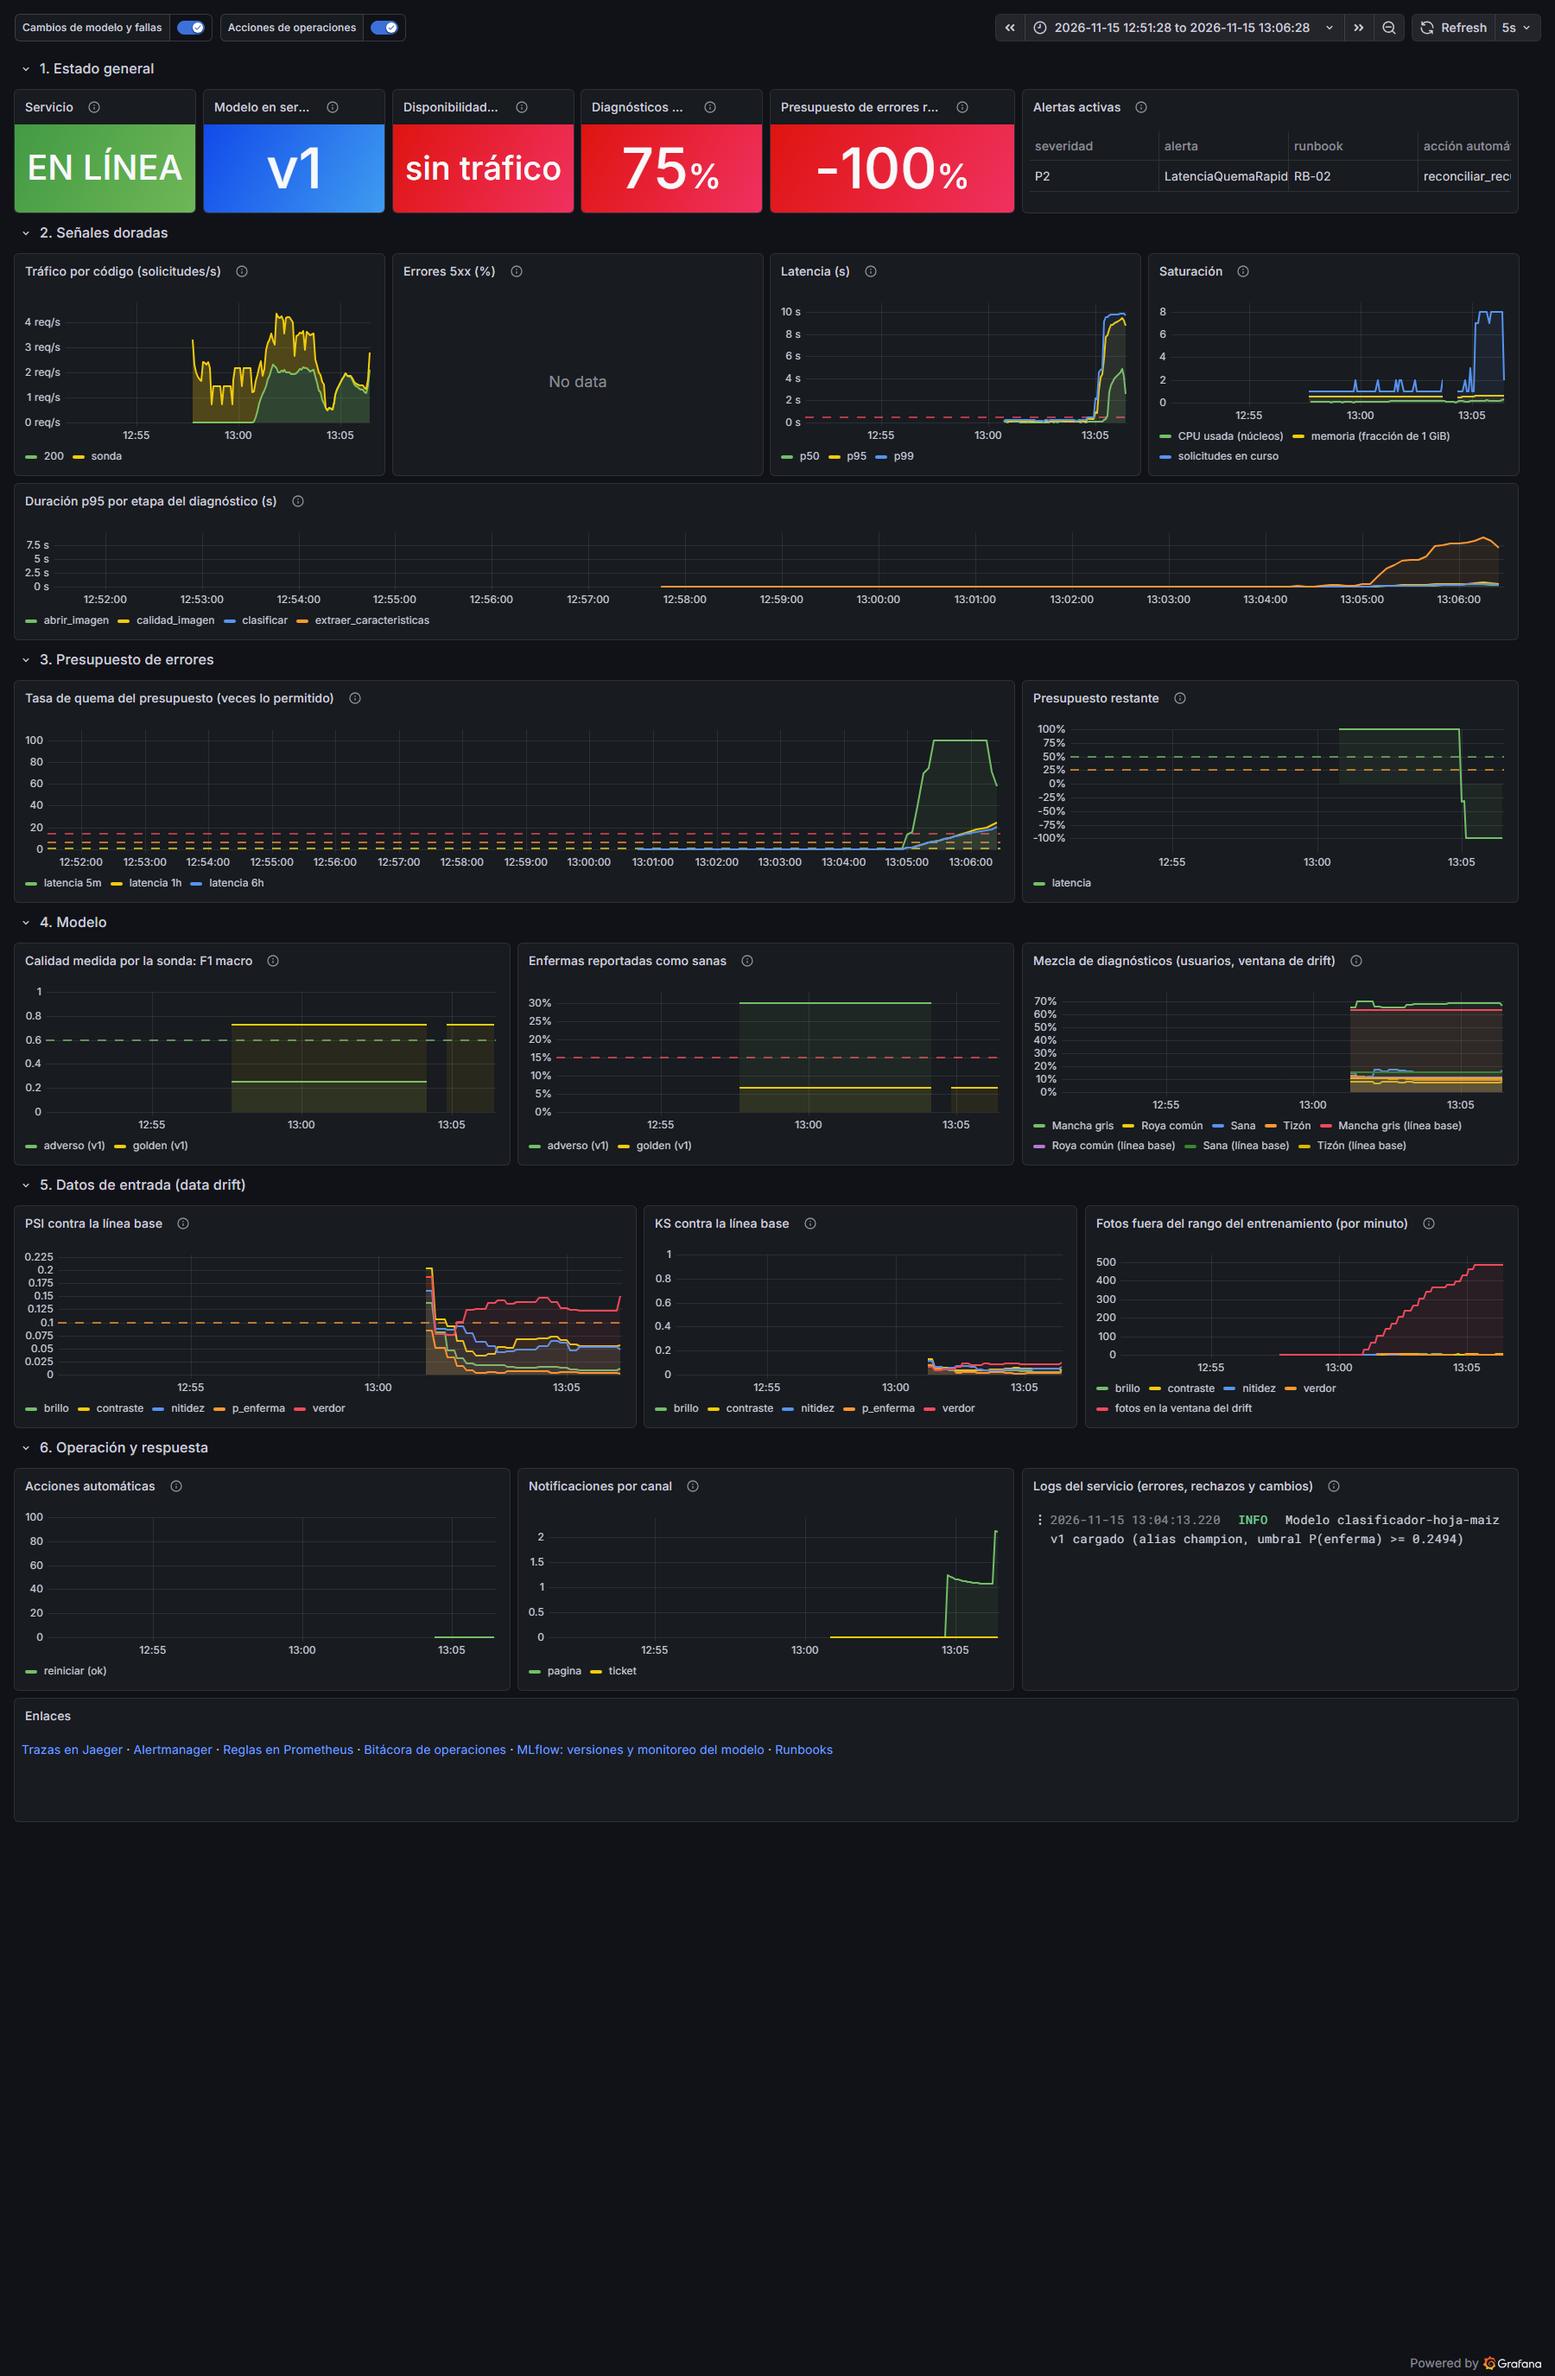
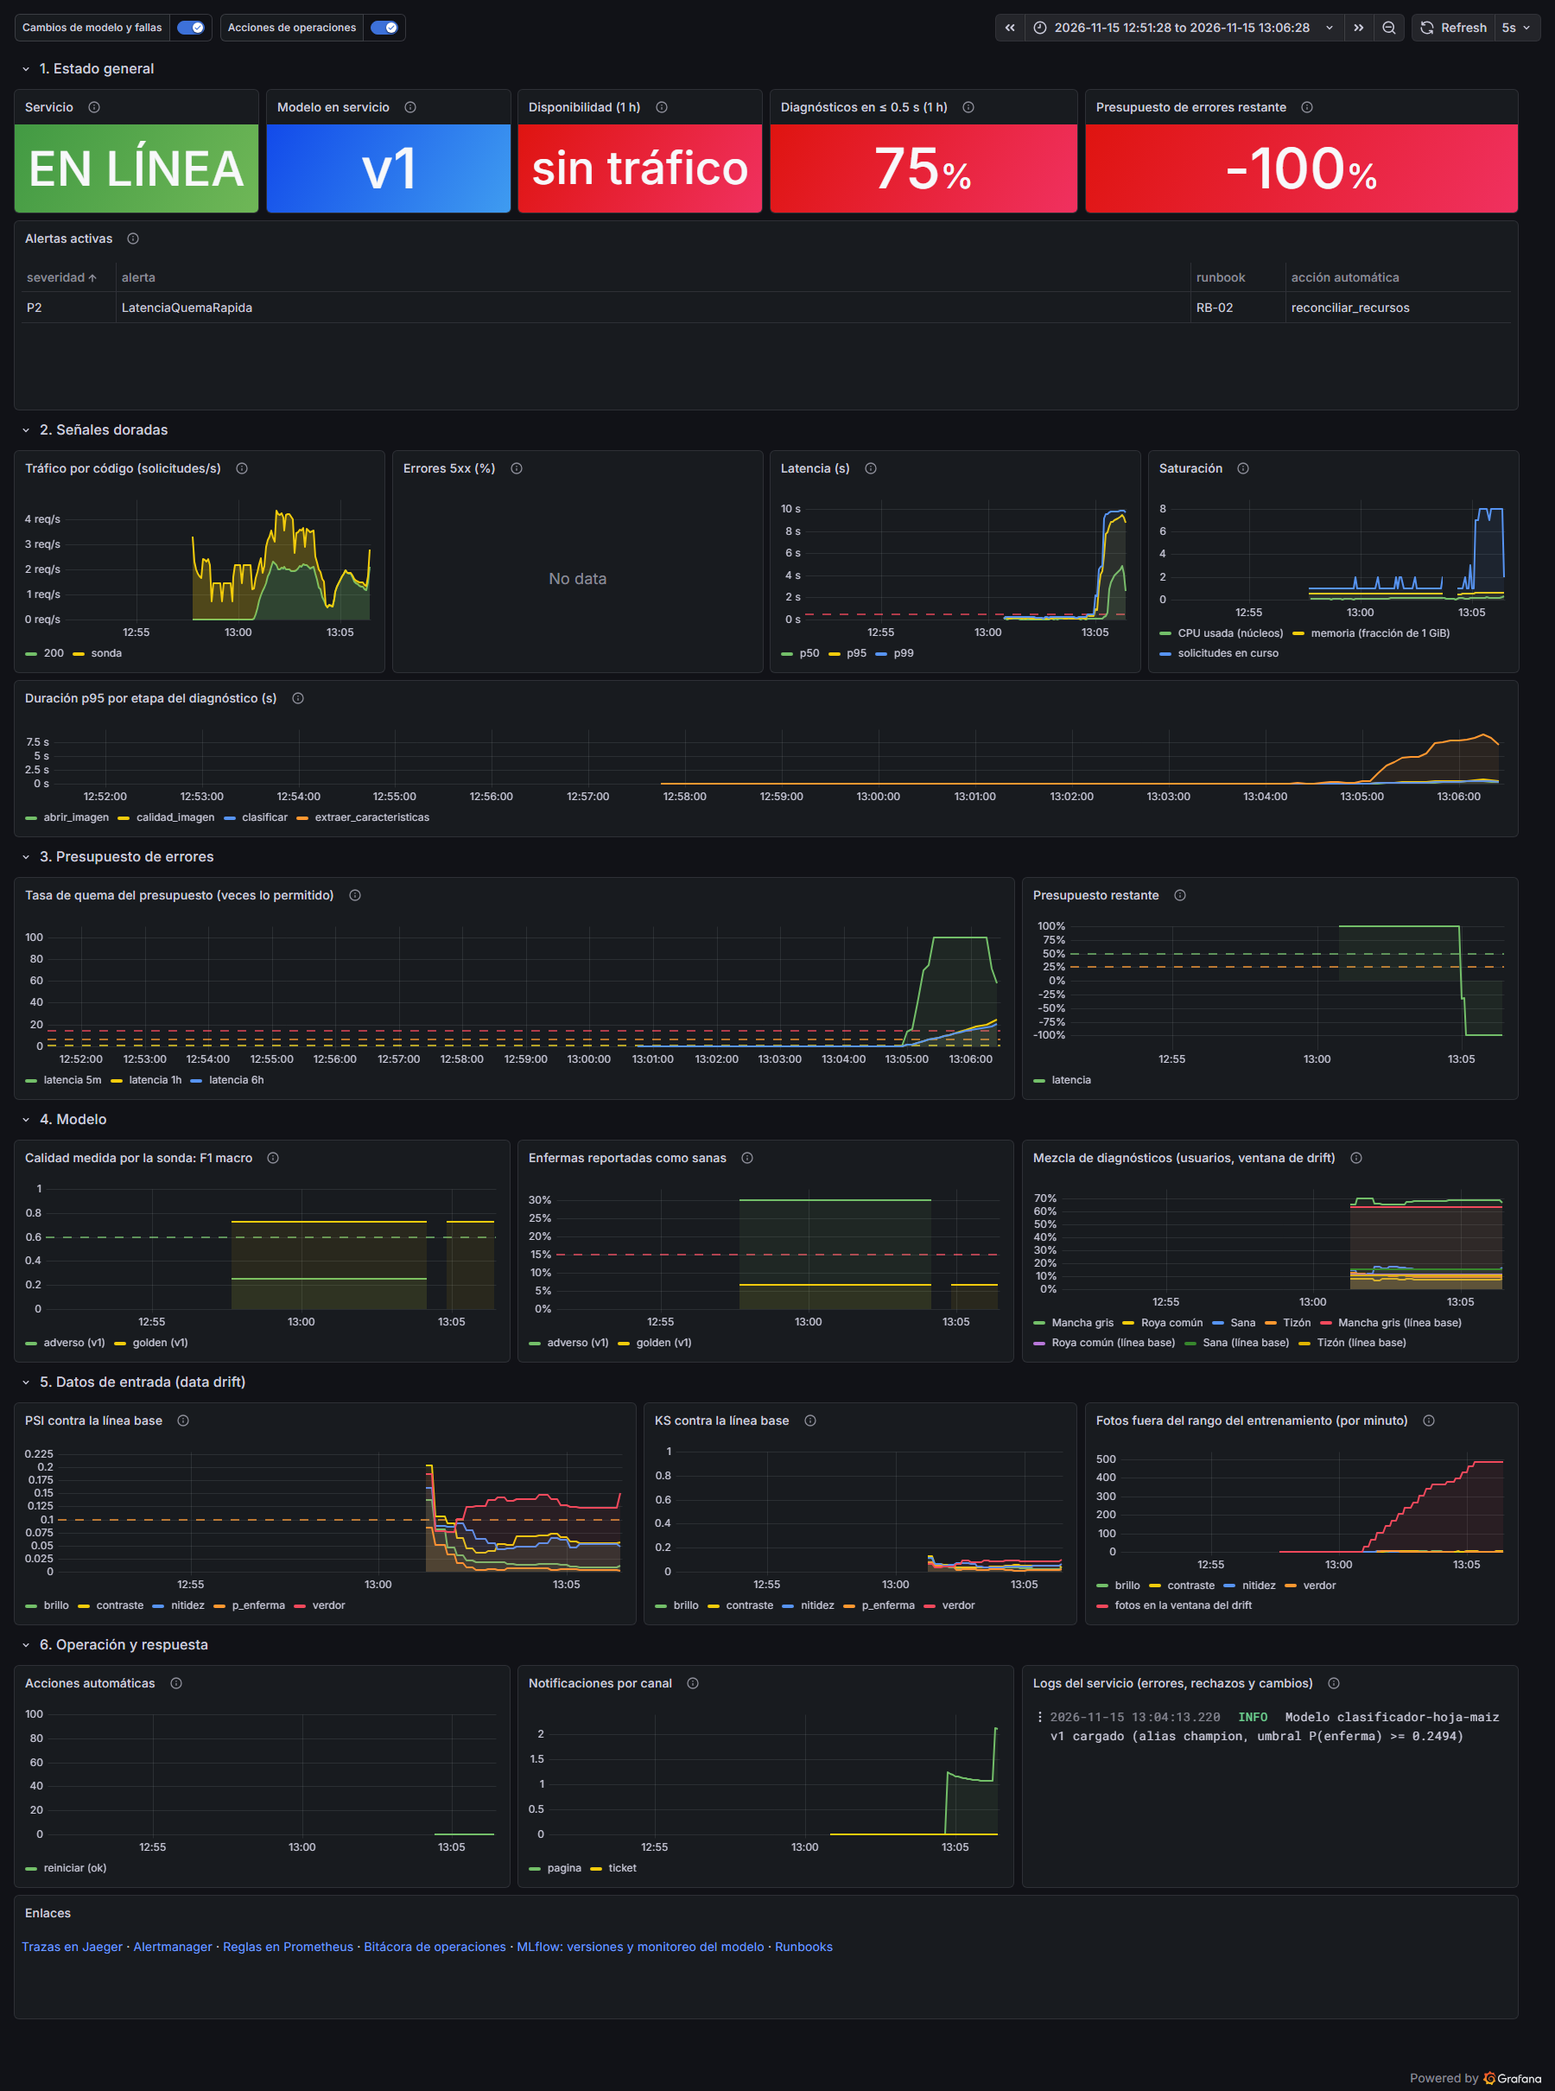
Tablero: alertas activas en una fila propia y ordenadas por severidad; capturas de Grafana repetidas
En un panel de 8 columnas por 4 de alto solo se leía una alerta y media (en el INC-04 se cortaba
CalidadModeloDegradada, la que dispara el rollback). Los indicadores de la fila 1 ocupan ahora todo el
ancho y sus títulos ya no se truncan.

diff --git a/monitoreo/tablero.py b/monitoreo/tablero.py
@@ -83,28 +83,36 @@ def construir():
 
     paneles.append(fila("1. Estado general", y)); y += 1
     paneles += [
-        dato("Servicio", 0, y, 3, 4, [q('up{job="api"}', instant=True)], "La API responde a Prometheus.",
+        dato("Servicio", 0, y, 4, 4, [q('up{job="api"}', instant=True)], "La API responde a Prometheus.",
              umbral=rojo_verde, mapeos=[{"type": "value", "options": {"0": {"text": "CAÍDO", "color": "red"},
                                                                        "1": {"text": "EN LÍNEA", "color": "green"}}}]),
-        dato("Modelo en servicio", 3, y, 3, 4, [q("max by (version) (modelo_info)", "v{{version}}", instant=True)],
+        dato("Modelo en servicio", 4, y, 4, 4, [q("max by (version) (modelo_info)", "v{{version}}", instant=True)],
              "Versión del alias champion del registro.", texto="name", umbral=umbrales(("blue", None))),
-        dato("Disponibilidad (1 h)", 6, y, 3, 4, [q('1 - slo:proporcion_errores:v1h{slo="disponibilidad"}', instant=True)],
+        dato("Disponibilidad (1 h)", 8, y, 4, 4, [q('1 - slo:proporcion_errores:v1h{slo="disponibilidad"}', instant=True)],
              "SLO: 99.5 % sin errores 5xx.", "percentunit", umbrales(("red", None), ("orange", 0.99), ("green", 0.995))),
-        dato("Diagnósticos en ≤ 0.5 s (1 h)", 9, y, 3, 4, [q('1 - slo:proporcion_errores:v1h{slo="latencia"}', instant=True)],
+        dato("Diagnósticos en ≤ 0.5 s (1 h)", 12, y, 5, 4, [q('1 - slo:proporcion_errores:v1h{slo="latencia"}', instant=True)],
              "SLO: 99 % en 0.5 s o menos.", "percentunit", umbrales(("red", None), ("orange", 0.95), ("green", 0.99))),
-        dato("Presupuesto de errores restante", 12, y, 4, 4,
+        dato("Presupuesto de errores restante", 17, y, 7, 4,
              [q('slo:presupuesto_restante', "{{slo}}", instant=True)],
              "Cuánto del presupuesto de la ventana del SLO (30 días; 2.5 días en el laboratorio) queda sin gastar.",
              "percentunit", umbrales(("red", None), ("orange", 0.25), ("green", 0.5))),
-        panel("table", "Alertas activas", 16, y, 8, 4,
-              [q('ALERTS{alertstate="firing"}', instant=True, formato="table")],
-              "Alertas que Prometheus tiene disparadas (Alertmanager decide a quién avisar y cuáles se inhiben).",
-              extra={"transformations": [{"id": "organize", "options": {
-                  "includeByName": {"alertname": True, "severidad": True, "runbook": True, "accion": True},
-                  "indexByName": {"severidad": 0, "alertname": 1, "runbook": 2, "accion": 3},
-                  "renameByName": {"alertname": "alerta", "accion": "acción automática"}}}]}),
     ]
     y += 4
+    # Fila propia y a todo lo ancho: en un panel de 8 columnas por 4 de alto solo se leía una alerta y media
+    tabla_alertas = panel("table", "Alertas activas", 0, y, 24, 6,
+                          [q('ALERTS{alertstate="firing"}', instant=True, formato="table")],
+                          "Alertas que Prometheus tiene disparadas (Alertmanager decide a quién avisar y cuáles se "
+                          "inhiben).", opciones={"showHeader": True, "sortBy": [{"displayName": "severidad", "desc": False}]},
+                          extra={"transformations": [{"id": "organize", "options": {
+                              "includeByName": {"alertname": True, "severidad": True, "runbook": True, "accion": True},
+                              "indexByName": {"severidad": 0, "alertname": 1, "runbook": 2, "accion": 3},
+                              "renameByName": {"alertname": "alerta", "accion": "acción automática"}}}]})
+    tabla_alertas["fieldConfig"]["overrides"] = [
+        {"matcher": {"id": "byName", "options": n}, "properties": [{"id": "custom.width", "value": w}]}
+        for n, w in (("severidad", 110), ("runbook", 110), ("acción automática", 260))]
+    tabla_alertas["fieldConfig"]["defaults"]["noValue"] = "sin alertas activas"
+    paneles.append(tabla_alertas)
+    y += 6
 
     paneles.append(fila("2. Señales doradas", y)); y += 1
     paneles += [

diff --git a/simulacion/capturar_evidencia.py b/simulacion/capturar_evidencia.py
@@ -108,10 +108,10 @@ def grafana():
             continue
         hasta = ms(inc["t_alerta_alertmanager"]) + 20000            # 20 s después de la alerta: sigue activa
         capturar(f"{GRAFANA}/d/operativo-maiz/?orgId=1&kiosk&from={hasta - 15 * 60000}&to={hasta}",
-                 SALIDA / f"grafana_tablero_{inc['id'].lower().replace('-', '')}.png", 1800, 2750, 30000)
+                 SALIDA / f"grafana_tablero_{inc['id'].lower().replace('-', '')}.png", 1800, 2420, 30000)
     resumen = json.loads((SIM / "resumen.json").read_text(encoding="utf-8"))
     capturar(f"{GRAFANA}/d/operativo-maiz/?orgId=1&kiosk&from={ms(resumen['inicio'])}&to={ms(resumen['fin'])}",
-             SALIDA / "grafana_tablero_simulacion_completa.png", 1800, 2750, 30000)
+             SALIDA / "grafana_tablero_simulacion_completa.png", 1800, 2420, 30000)
 
 
 def trazas_y_logs():
